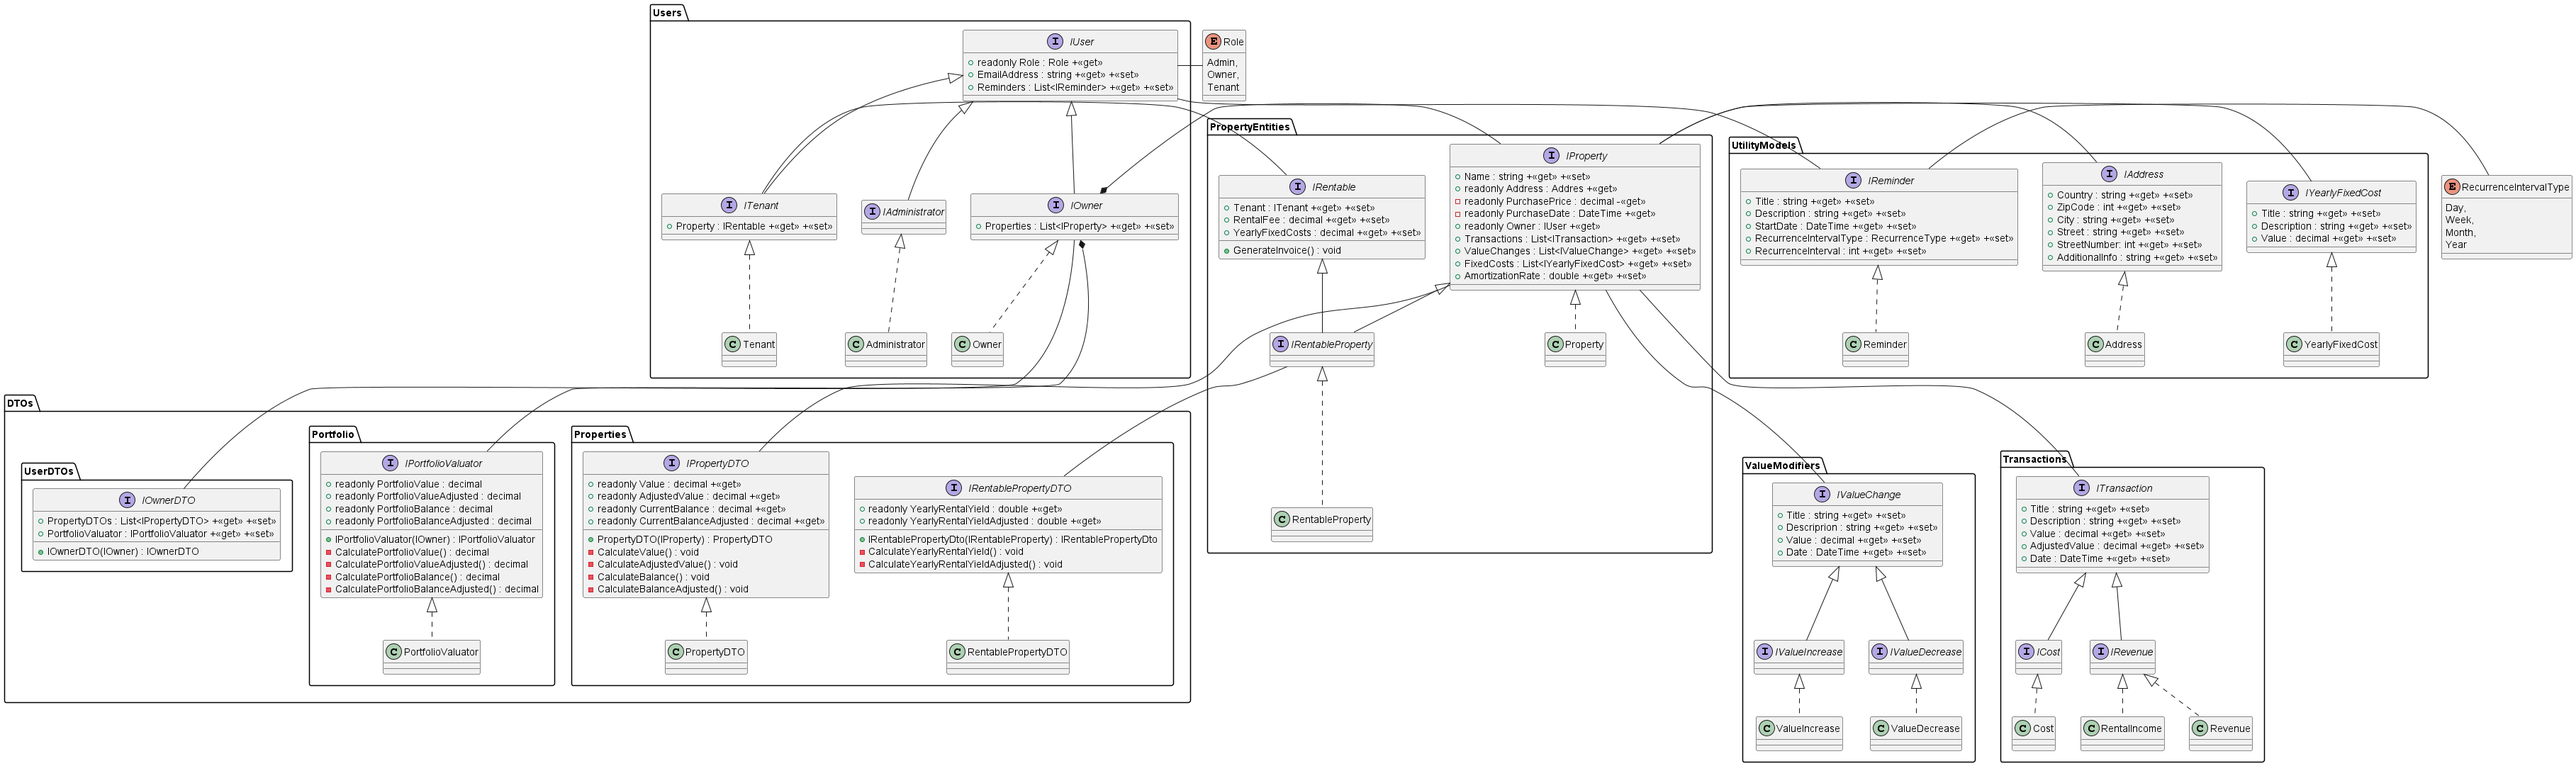
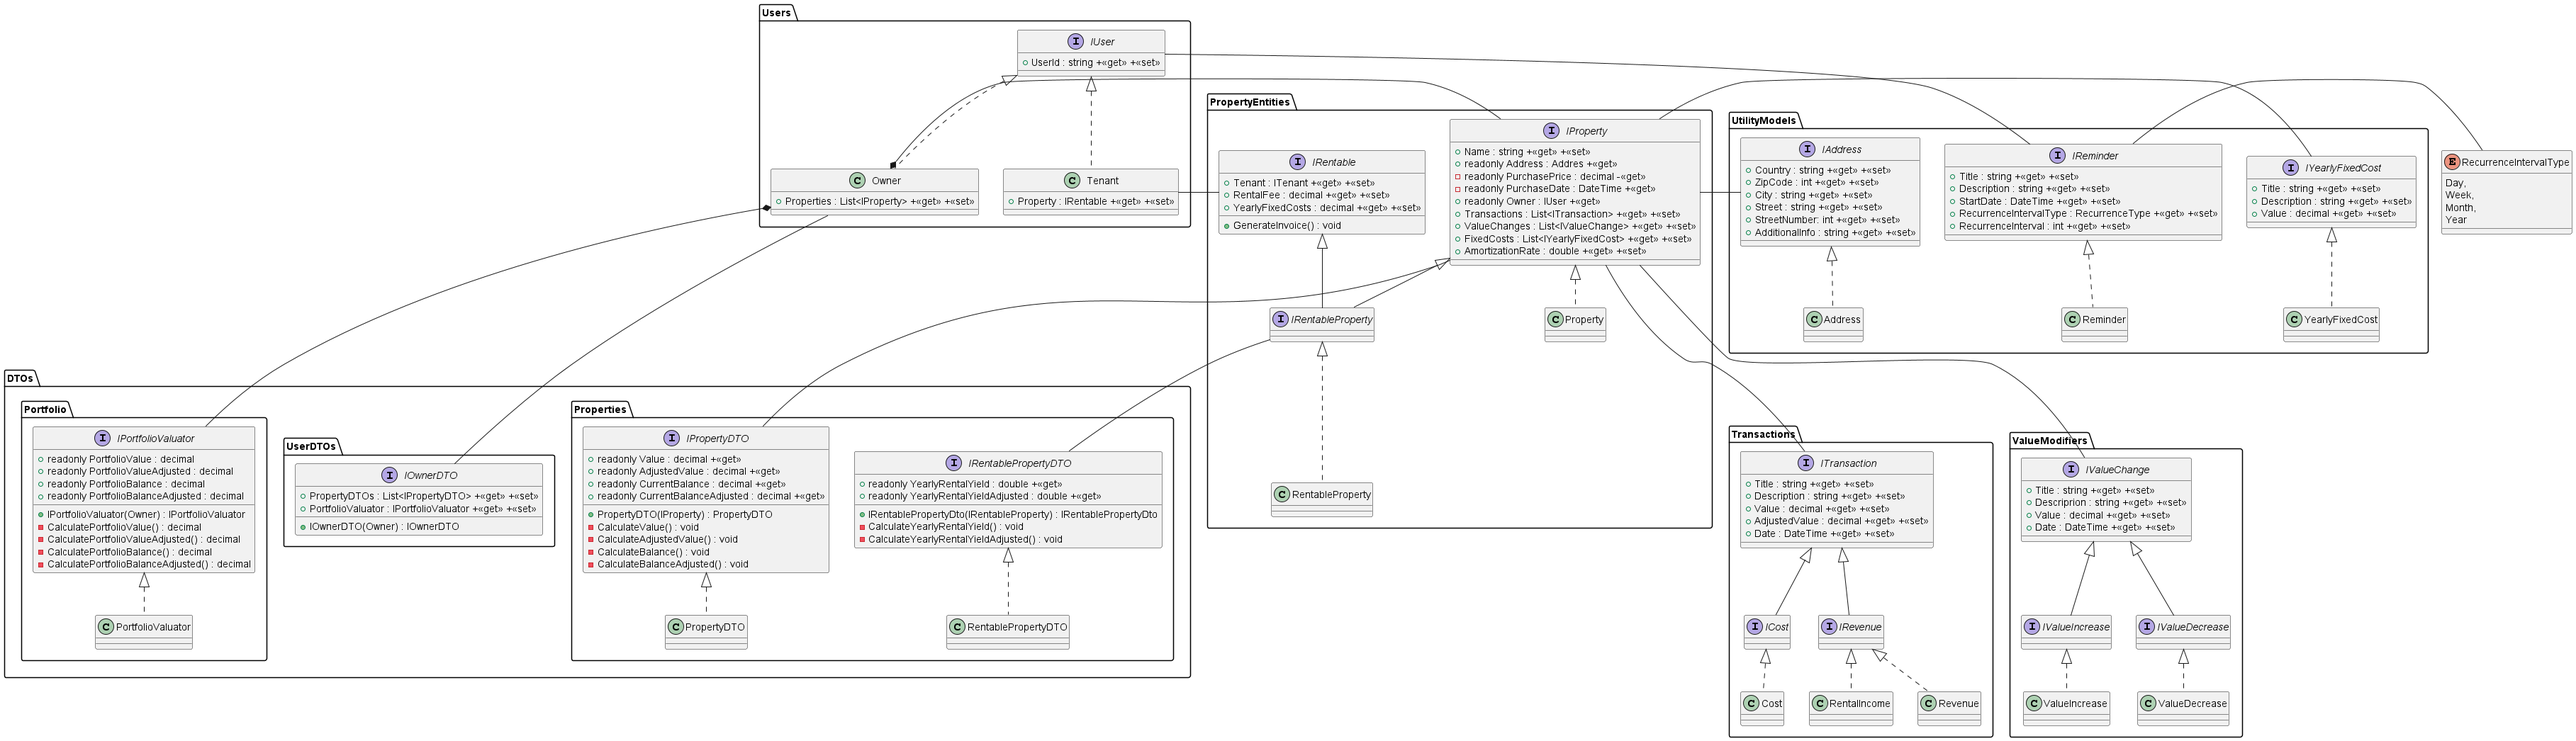
Add: update uml plan, implement user entity models

diff --git a/PPMModelLibrary/Models/Users/Tenant.cs b/PPMModelLibrary/Models/Users/Tenant.cs
@@ -1,0 +1,14 @@
+using System.ComponentModel.DataAnnotations;
+using AuthServiceModelLibrary.ApplicationUser;
+using Microsoft.EntityFrameworkCore.Metadata.Internal;
+
+namespace PPMModelLibrary.Models.Users
+{
+    public class Tenant : IUser
+    {
+        [Key]
+        public string UserId { get; set; }
+
+        private IRentable Property { get; set; }
+    }
+}

diff --git a/PPMModelLibrary/Models/Users/Owner.cs b/PPMModelLibrary/Models/Users/Owner.cs
@@ -1,0 +1,13 @@
+using System.ComponentModel.DataAnnotations;
+using AuthServiceModelLibrary.ApplicationUser;
+
+namespace PPMModelLibrary.Models.Users
+{
+    public class Owner : IUser
+    {
+        [Key]
+        public string UserId { get; set; }
+
+        private List<IProperty> Properties { get; set; }
+    }
+}

diff --git a/PPMModelLibrary/Models/Users/IUser.cs b/PPMModelLibrary/Models/Users/IUser.cs
@@ -2,6 +2,6 @@
 {
     public interface IUser
     {
-        public int Id { get; set; }
+        public string UserId { get; set; }
     }
 }
